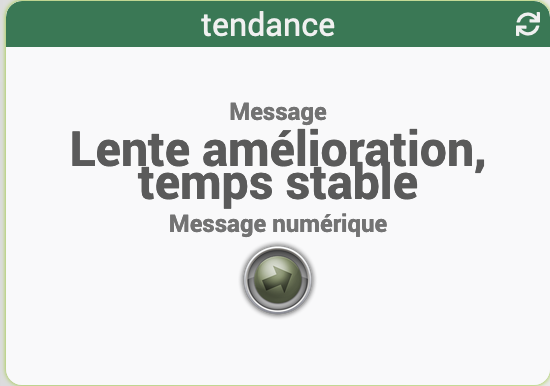
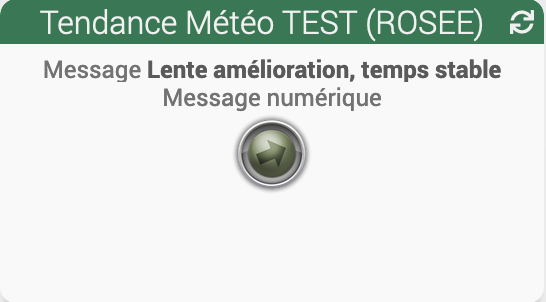
Mise à jour documentation plugin rosee

Changed region(s): [[0.0623, 0.1788, 0.9341, 0.8344], [0.0, 0.0, 1.0, 1.0], [0.9963, 0.9536, 1.0, 0.9834]]

diff --git a/plugin-rosee/fr_FR/index.md b/plugin-rosee/fr_FR/index.md
@@ -70,6 +70,12 @@ Le plugin calcule 6 niveaux d'information :
 | <b>4</b> | Amélioration, beau temps durable   | <img src="../{{site.img}}/tendance_4.png" alt="Tendance 4" width="40" /> |
 | <b>5</b> | Forte embellie, instable           | <img src="../{{site.img}}/tendance_5.png" alt="Tendance 5" width="40" /> |
 
-Le plugin affecte par défaut un widget sur la commande _Message numérique_ (uniquement pour le Core V4) :<br/>
+Le plugin met à disposition deux widgets pour la tendance :
+
+> - Rosee/Tendance (Icône 40x40) (Widget par défaut)
 
 ![Visu Tendance](../{{site.img}}/visu_tendance.png)
+
+> - Rosee/Tendance 80x80 (Icône 80x80)
+
+![Visu Tendance 80x80](../{{site.img}}/visu_tendance_80x80.png)

diff --git a/plugin-rosee/fr_FR/changelog.md b/plugin-rosee/fr_FR/changelog.md
@@ -13,6 +13,10 @@ pluginId: rosee
 
 > **_Pour rappel_** s'il n'y a pas d'information sur la mise à jour, c'est que celle-ci concerne uniquement de la mise à jour de documentation, de traduction ou de corrections de bugs mineur.
 
+# Version 20201027
+
+- Amélioration Visu sur dashboard
+
 # Version 20201026
 
 - Amélioration création des commandes
